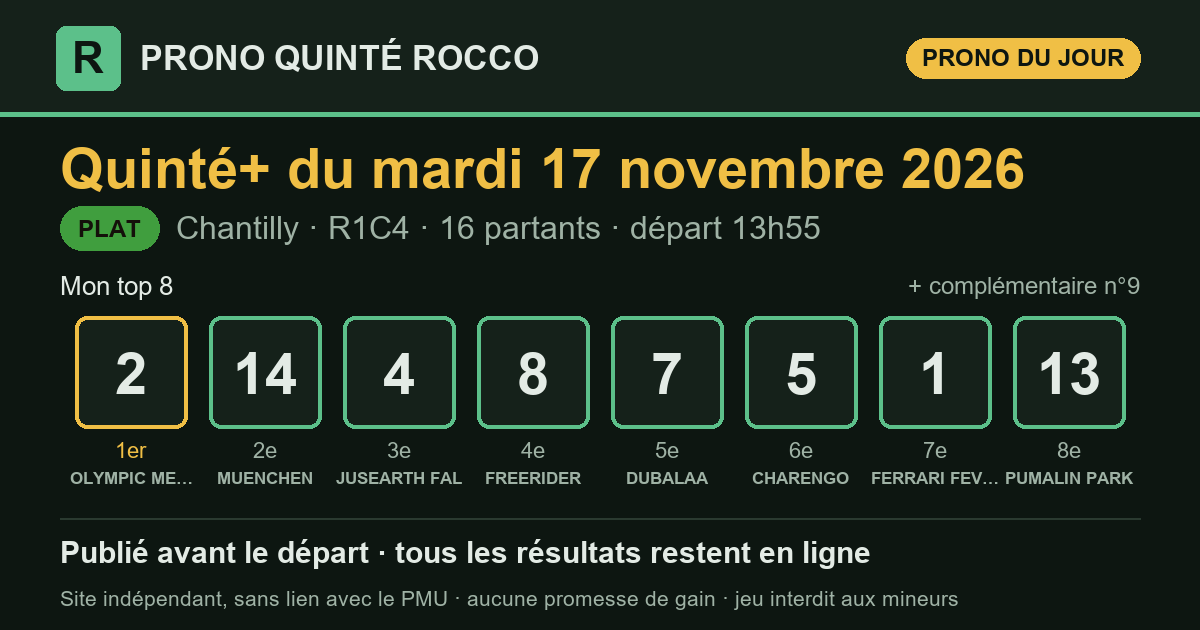
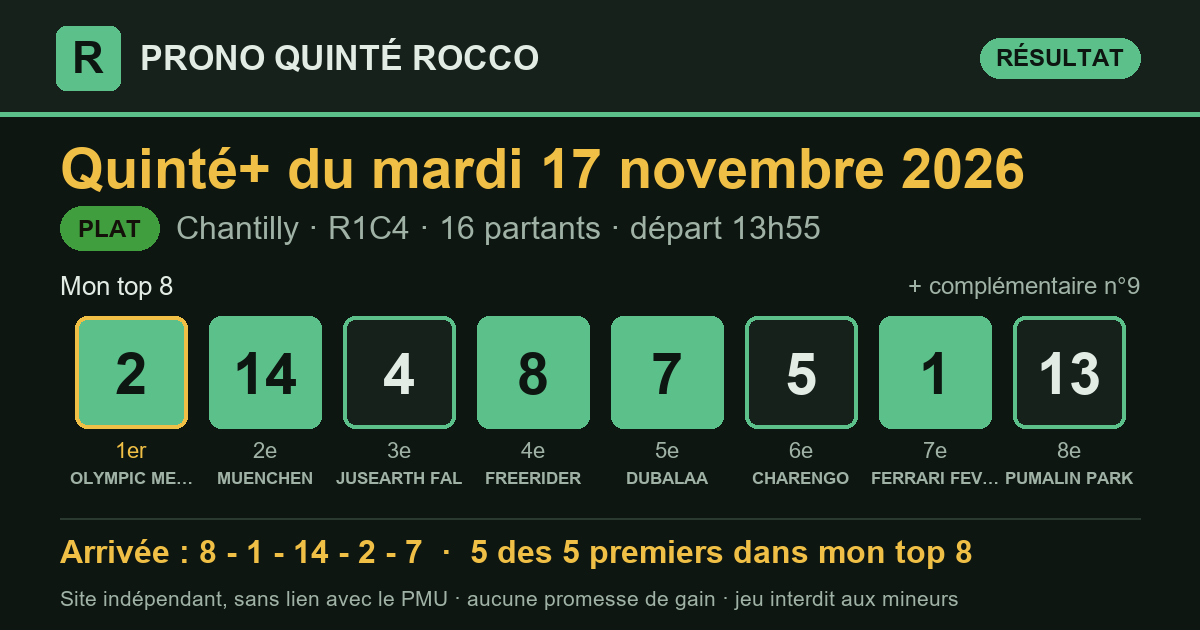
Résultat du Quinté+ 2026-11-17 Chantilly R1C4 — publié le 17/11/2026 14:09 (heure de Paris)

diff --git a/index.html b/index.html
@@ -16,7 +16,7 @@
 <meta property="og:title" content="Pronostics Quinté+ et Super Pick 5 du mardi 17 novembre 2026 — Prono Quinté Rocco">
 <meta property="og:description" content="Pronostics Quinté+ (Prix de Beauvais) et Super Pick 5 (Prix d&#x27;Aix les Bains) du jour : mes top 8, publiés avant le départ, puis tous les résultats et le rendement réel.">
 <meta property="og:url" content="https://prono-quinte-rocco.fr/">
-<meta property="og:image" content="https://prono-quinte-rocco.fr/partage/jour-2026-11-17.png?v=2fc89c6c">
+<meta property="og:image" content="https://prono-quinte-rocco.fr/partage/jour-2026-11-17.png?v=c4b7b05a">
 <meta property="og:image:type" content="image/png">
 <meta property="og:image:width" content="1200">
 <meta property="og:image:height" content="630">
@@ -32,7 +32,7 @@
 <div class="jeux j-quinte" role="navigation" aria-label="Choix du jeu"><a class="jeu jeu-quinte actif" href="index.html" aria-current="true">Quinté+</a><a class="jeu jeu-sp5" href="superpick5.html">e-Super Pick5<small>entre 17 h et 19 h</small></a></div>
 <main>
 <section class="une" aria-labelledby="t-jour">
-  <p class="surtitre">Quinté+ du jour</p>
+  <p class="surtitre">Dernier Quinté+</p>
   <h1 id="t-jour">Le prono du Quinté+, résultats compris</h1>
   <p class="chapo">Chaque matin, j'étudie les partants du Quinté+ avec le logiciel que
   j'ai conçu, selon ma propre méthode, qu'une intelligence artificielle m'aide à
@@ -43,10 +43,13 @@
   <p class="meta">Prix de Beauvais · Chantilly · <strong>R1C4</strong> · 16 partants · <span class="lisib">lisibilité <span class="note" aria-label="note 2 sur 5" title="lisibilité 2/5 : course ouverte"><i class="on"></i><i class="on"></i><i class=""></i><i class=""></i><i class=""></i></span> 2/5</span></p>
   <div class="zone-prono">
     <h3 class="zone-titre">Mon top 8</h3>
-    <ol class="partants" aria-label="Mon top 8"><li><span class="rang">1<sup>er</sup></span><span class="tapis ">2</span><span class="nom">OLYMPIC MESSAGE</span></li><li><span class="rang">2<sup>e</sup></span><span class="tapis ">14</span><span class="nom">MUENCHEN</span></li><li><span class="rang">3<sup>e</sup></span><span class="tapis ">4</span><span class="nom">JUSEARTH FAL</span></li><li><span class="rang">4<sup>e</sup></span><span class="tapis ">8</span><span class="nom">FREERIDER</span></li><li><span class="rang">5<sup>e</sup></span><span class="tapis ">7</span><span class="nom">DUBALAA</span></li><li><span class="rang">6<sup>e</sup></span><span class="tapis ">5</span><span class="nom">CHARENGO</span></li><li><span class="rang">7<sup>e</sup></span><span class="tapis ">1</span><span class="nom">FERRARI FEVER</span></li><li><span class="rang">8<sup>e</sup></span><span class="tapis ">13</span><span class="nom">PUMALIN PARK</span></li><li><span class="rang">compl.</span><span class="tapis creux">9</span><span class="nom">FRANCISCANO</span></li></ol>
+    <ol class="partants" aria-label="Mon top 8"><li><span class="rang">1<sup>er</sup></span><span class="tapis plein">2</span><span class="nom">OLYMPIC MESSAGE</span></li><li><span class="rang">2<sup>e</sup></span><span class="tapis plein">14</span><span class="nom">MUENCHEN</span></li><li><span class="rang">3<sup>e</sup></span><span class="tapis ">4</span><span class="nom">JUSEARTH FAL</span></li><li><span class="rang">4<sup>e</sup></span><span class="tapis plein">8</span><span class="nom">FREERIDER</span></li><li><span class="rang">5<sup>e</sup></span><span class="tapis plein">7</span><span class="nom">DUBALAA</span></li><li><span class="rang">6<sup>e</sup></span><span class="tapis ">5</span><span class="nom">CHARENGO</span></li><li><span class="rang">7<sup>e</sup></span><span class="tapis plein">1</span><span class="nom">FERRARI FEVER</span></li><li><span class="rang">8<sup>e</sup></span><span class="tapis ">13</span><span class="nom">PUMALIN PARK</span></li><li><span class="rang">compl.</span><span class="tapis creux">9</span><span class="nom">FRANCISCANO</span></li></ol>
     <div class="pied-carte"><span>Analysé le 17/11 à 11:10 · en ligne le 17/11 à 11:18 · départ à 13:55 (heure de Paris)</span><span><a href="quinte/2026-11-17.html">Détail de la course</a></span></div>
   </div>
-  <div class="zone-arrivee attente"><p>L'arrivée officielle s'affichera ici après la course.</p></div>
+  <div class="zone-arrivee">
+    <div class="zone-tete"><h3 class="zone-titre">Arrivée officielle</h3><span class="etat top">5 des 5 premiers dans mon top 8</span><span class="etat non">mon 1er (n°2) : non placé</span></div>
+    <ol class="partants" aria-label="Arrivée officielle"><li><span class="rang">1<sup>er</sup></span><span class="tapis plein">8</span><span class="nom">FREERIDER</span></li><li><span class="rang">2<sup>e</sup></span><span class="tapis plein">1</span><span class="nom">FERRARI FEVER</span></li><li><span class="rang">3<sup>e</sup></span><span class="tapis plein">14</span><span class="nom">MUENCHEN</span></li><li><span class="rang">4<sup>e</sup></span><span class="tapis plein">2</span><span class="nom">OLYMPIC MESSAGE</span></li><li><span class="rang">5<sup>e</sup></span><span class="tapis plein">7</span><span class="nom">DUBALAA</span></li></ol>
+  </div>
 </article>
 </section>
 <section class="suivre" aria-label="Suivre et soutenir">
@@ -76,7 +79,7 @@
 </section>
 <section class="bilan" aria-labelledby="t-bilan">
   <h2 id="t-bilan">Mon bilan depuis le 8 septembre 2026</h2>
-  <div class="tableau chiffres"><div class="case"><span class="gros ">73 %</span><span class="lib">des arrivants trouvés dans mon top 8</span><span class="ref">un top 8 tiré au hasard : 51 %</span></div><div class="case"><span class="gros ">88 %</span><span class="lib">des gagnants présents dans mon top 8</span><span class="ref"></span></div><div class="case"><span class="gros ">48 %</span><span class="lib">mon 1er placé</span><span class="ref">sur 69 Quintés</span></div><div class="case"><span class="gros perte">0,88 €</span><span class="lib">rendus pour 1 € joué placé sur mon 1er</span><span class="ref">rapports officiels PMU</span></div><div class="case"><span class="gros perte">0,43 €</span><span class="lib">rendus pour 1 € joué en Quinté+ combiné sur mon top 8</span><span class="ref">56 combinaisons, rapports PMU.fr, sur 69 Quintés</span></div></div>
+  <div class="tableau chiffres"><div class="case"><span class="gros ">73 %</span><span class="lib">des arrivants trouvés dans mon top 8</span><span class="ref">un top 8 tiré au hasard : 51 %</span></div><div class="case"><span class="gros ">89 %</span><span class="lib">des gagnants présents dans mon top 8</span><span class="ref"></span></div><div class="case"><span class="gros ">47 %</span><span class="lib">mon 1er placé</span><span class="ref">sur 70 Quintés</span></div><div class="case"><span class="gros perte">0,87 €</span><span class="lib">rendus pour 1 € joué placé sur mon 1er</span><span class="ref">rapports officiels PMU</span></div><div class="case"><span class="gros perte">0,43 €</span><span class="lib">rendus pour 1 € joué en Quinté+ combiné sur mon top 8</span><span class="ref">56 combinaisons, rapports PMU.fr, sur 70 Quintés</span></div></div>
   <p class="avertissement">Moins de 1 € rendu pour 1 € joué : suivre mon prono à la lettre fait <strong>perdre de l'argent</strong> sur cette période. Il sert à analyser une course, pas à promettre un gain.</p>
 </section>
 </main>

diff --git a/partants.html b/partants.html
@@ -33,42 +33,42 @@
     <p class="fiche-date">Mardi 17 novembre 2026</p>
     <div class="fiche-rc"><span class="pastille" title="Réunion 1">R1</span><span class="pastille" title="Course 4">C4</span><span class="fiche-nom">Prix de Beauvais</span></div>
     <p class="meta"><span class="type t-plat">Plat</span>Chantilly · 1 600 m · 16 partants</p>
-    <p class="fiche-depart">Départ <b>13:55</b> <span>heure de Paris</span></p>
+    <p class="fiche-depart">Départ <b>13:57</b> <span>heure de Paris</span></p>
   </div>
   <p class="surtitre">Les pronostics ailleurs sur le web</p>
-  <div class="liens"><a class="lien-ext" href="https://www.turfoo.fr/programmes-courses/261117/reunion1-chantilly/course4-prix-de-beauvais/pronostics-presse/" rel="noopener" target="_blank"><b>Les pronostics de la presse →</b><span>sur Turfoo (site extérieur)</span></a><a class="lien-ext" href="https://www.geny.com/programme/2026-11-17" rel="noopener" target="_blank"><b>Partants et pronostics →</b><span>programme du jour sur Geny (site extérieur)</span></a></div>
+  <div class="liens"><a class="lien-ext" href="https://www.turfoo.fr/programmes-courses/261117/" rel="noopener" target="_blank"><b>Les pronostics de la presse →</b><span>sur Turfoo (site extérieur)</span></a><a class="lien-ext" href="https://www.geny.com/programme/2026-11-17" rel="noopener" target="_blank"><b>Partants et pronostics →</b><span>programme du jour sur Geny (site extérieur)</span></a></div>
   <div class="liste-boite"><table class="liste-partants">
     <thead><tr><th>N°</th><th>Cheval</th><th class="cote"><span class="long">Cote du matin</span><span class="court">Cote</span></th>
     <th class="ia"><span class="long">Mon prono</span><span class="court">Prono</span></th></tr></thead>
     <tbody><tr>
   <td><span class="tapis petit">1</span></td>
   <td><span class="cheval">FERRARI FEVER</span><span class="sous">T.TRULLIER · JUL .PHELIPPON</span></td>
-  <td class="cote num">16,0</td>
+  <td class="cote num">15,0</td>
   <td class="ia"><span class="etat place">7<sup>e</sup></span></td>
 </tr><tr>
   <td><span class="tapis petit">2</span></td>
   <td><span class="cheval">OLYMPIC MESSAGE</span><span class="sous">C.SOUMILLON · N.PERRET (S)</span></td>
-  <td class="cote num">3,9</td>
+  <td class="cote num">4,4</td>
   <td class="ia"><span class="etat place">1<sup>er</sup></span></td>
 </tr><tr>
   <td><span class="tapis petit">3</span></td>
   <td><span class="cheval">THOR LIGHTNING</span><span class="sous">T.BACHELOT · S.RICHTER</span></td>
-  <td class="cote num">30,0</td>
+  <td class="cote num">29,0</td>
   <td class="ia">—</td>
 </tr><tr>
   <td><span class="tapis petit">4</span></td>
   <td><span class="cheval">JUSEARTH FAL</span><span class="sous">C.LECOEUVRE · M.PITART</span></td>
-  <td class="cote num">10,0</td>
+  <td class="cote num">9,9</td>
   <td class="ia"><span class="etat place">3<sup>e</sup></span></td>
 </tr><tr>
   <td><span class="tapis petit">5</span></td>
   <td><span class="cheval">CHARENGO</span><span class="sous">M.GUYON · FX.WEISSMEIER</span></td>
-  <td class="cote num">9,5</td>
+  <td class="cote num">10,0</td>
   <td class="ia"><span class="etat place">6<sup>e</sup></span></td>
 </tr><tr>
   <td><span class="tapis petit">6</span></td>
   <td><span class="cheval">DIVINE CHRISNAT</span><span class="sous">F.VERON · CH.PLISSON (S)</span></td>
-  <td class="cote num">36,0</td>
+  <td class="cote num">38,0</td>
   <td class="ia">—</td>
 </tr><tr>
   <td><span class="tapis petit">7</span></td>
@@ -78,7 +78,7 @@
 </tr><tr>
   <td><span class="tapis petit">8</span></td>
   <td><span class="cheval">FREERIDER</span><span class="sous">PC.BOUDOT · FH.GRAFFARD (S)</span></td>
-  <td class="cote num">8,1</td>
+  <td class="cote num">6,8</td>
   <td class="ia"><span class="etat place">4<sup>e</sup></span></td>
 </tr><tr>
   <td><span class="tapis petit">9</span></td>
@@ -88,42 +88,42 @@
 </tr><tr>
   <td><span class="tapis petit">10</span></td>
   <td><span class="cheval">FAST RAAJ</span><span class="sous">H.JOURNIAC · Y.BARBEROT (S)</span></td>
-  <td class="cote num">35,0</td>
+  <td class="cote num">31,0</td>
   <td class="ia">—</td>
 </tr><tr>
   <td><span class="tapis petit">11</span></td>
   <td><span class="cheval">MONTGAUDRY</span><span class="sous">H.BOUTIN · D.SMAGA</span></td>
-  <td class="cote num">32,0</td>
+  <td class="cote num">34,0</td>
   <td class="ia">—</td>
 </tr><tr>
   <td><span class="tapis petit">12</span></td>
   <td><span class="cheval">CANENA</span><span class="sous">A.WERLE · K.TAVARES (S)</span></td>
-  <td class="cote num">56,0</td>
+  <td class="cote num">55,0</td>
   <td class="ia">—</td>
 </tr><tr>
   <td><span class="tapis petit">13</span></td>
   <td><span class="cheval">PUMALIN PARK</span><span class="sous">E.HARDOUIN · G.MOSSE (S)</span></td>
-  <td class="cote num">13,0</td>
+  <td class="cote num">14,0</td>
   <td class="ia"><span class="etat place">8<sup>e</sup></span></td>
 </tr><tr>
   <td><span class="tapis petit">14</span></td>
   <td><span class="cheval">MUENCHEN</span><span class="sous">S.PASQUIER · C.ESCUDER</span></td>
-  <td class="cote num">7,9</td>
+  <td class="cote num">7,4</td>
   <td class="ia"><span class="etat place">2<sup>e</sup></span></td>
 </tr><tr>
   <td><span class="tapis petit">15</span></td>
   <td><span class="cheval">FOU FURIEUX</span><span class="sous">A.MADAMET · N.CAULLERY</span></td>
-  <td class="cote num">16,0</td>
+  <td class="cote num">17,0</td>
   <td class="ia">—</td>
 </tr><tr>
   <td><span class="tapis petit">16</span></td>
   <td><span class="cheval">COKTAIL</span><span class="sous">C.PACAUT · J.RAJA</span></td>
-  <td class="cote num">46,0</td>
+  <td class="cote num">52,0</td>
   <td class="ia">—</td>
 </tr></tbody>
   </table></div>
   <p class="meta">La colonne « Mon prono » donne le rang de chaque cheval dans mon top 8, tel qu&#x27;il est publié sur ce site. Sous chaque cheval : jockey · entraîneur. Partants et cotes : programme
-  officiel du PMU, lu le 17/11 à 11:18 (heure de Paris). NP = non-partant.</p>
+  officiel du PMU, lu le 17/11 à 14:09 (heure de Paris). NP = non-partant.</p>
 </section>
 </main>
 <footer class="pied">

diff --git a/quinte/2026-11-17.html b/quinte/2026-11-17.html
@@ -16,7 +16,7 @@
 <meta property="og:title" content="Pronostic Quinté+ du mardi 17 novembre 2026 : Prix de Beauvais à Chantilly — Prono Quinté Rocco">
 <meta property="og:description" content="Prono Quinté+ du mardi 17 novembre 2026 (Prix de Beauvais, Chantilly) : mon top 8, l&#x27;arrivée officielle et les rapports PMU.fr.">
 <meta property="og:url" content="https://prono-quinte-rocco.fr/quinte/2026-11-17.html">
-<meta property="og:image" content="https://prono-quinte-rocco.fr/partage/2026-11-17.png?v=d5117443">
+<meta property="og:image" content="https://prono-quinte-rocco.fr/partage/2026-11-17.png?v=7343bb04">
 <meta property="og:image:type" content="image/png">
 <meta property="og:image:width" content="1200">
 <meta property="og:image:height" content="630">
@@ -36,15 +36,25 @@
   <h1>Pronostic Quinté+ du mardi 17 novembre 2026</h1>
   <p class="chapo">Prix de Beauvais · Chantilly · R1C4 · Plat · 16 partants</p>
   <article class="carte-course">
-  <div class="tete"><h2>Mon prono</h2><span class="type t-plat">Plat</span></div>
+  <div class="tete"><h2>Mon prono et l&#x27;arrivée officielle</h2><span class="type t-plat">Plat</span></div>
   <p class="meta">Prix de Beauvais · Chantilly · <strong>R1C4</strong> · 16 partants · <span class="lisib">lisibilité <span class="note" aria-label="note 2 sur 5" title="lisibilité 2/5 : course ouverte"><i class="on"></i><i class="on"></i><i class=""></i><i class=""></i><i class=""></i></span> 2/5</span></p>
   <div class="zone-prono">
     <h3 class="zone-titre">Mon top 8</h3>
-    <ol class="partants" aria-label="Mon top 8"><li><span class="rang">1<sup>er</sup></span><span class="tapis ">2</span><span class="nom">OLYMPIC MESSAGE</span></li><li><span class="rang">2<sup>e</sup></span><span class="tapis ">14</span><span class="nom">MUENCHEN</span></li><li><span class="rang">3<sup>e</sup></span><span class="tapis ">4</span><span class="nom">JUSEARTH FAL</span></li><li><span class="rang">4<sup>e</sup></span><span class="tapis ">8</span><span class="nom">FREERIDER</span></li><li><span class="rang">5<sup>e</sup></span><span class="tapis ">7</span><span class="nom">DUBALAA</span></li><li><span class="rang">6<sup>e</sup></span><span class="tapis ">5</span><span class="nom">CHARENGO</span></li><li><span class="rang">7<sup>e</sup></span><span class="tapis ">1</span><span class="nom">FERRARI FEVER</span></li><li><span class="rang">8<sup>e</sup></span><span class="tapis ">13</span><span class="nom">PUMALIN PARK</span></li><li><span class="rang">compl.</span><span class="tapis creux">9</span><span class="nom">FRANCISCANO</span></li></ol>
+    <ol class="partants" aria-label="Mon top 8"><li><span class="rang">1<sup>er</sup></span><span class="tapis plein">2</span><span class="nom">OLYMPIC MESSAGE</span></li><li><span class="rang">2<sup>e</sup></span><span class="tapis plein">14</span><span class="nom">MUENCHEN</span></li><li><span class="rang">3<sup>e</sup></span><span class="tapis ">4</span><span class="nom">JUSEARTH FAL</span></li><li><span class="rang">4<sup>e</sup></span><span class="tapis plein">8</span><span class="nom">FREERIDER</span></li><li><span class="rang">5<sup>e</sup></span><span class="tapis plein">7</span><span class="nom">DUBALAA</span></li><li><span class="rang">6<sup>e</sup></span><span class="tapis ">5</span><span class="nom">CHARENGO</span></li><li><span class="rang">7<sup>e</sup></span><span class="tapis plein">1</span><span class="nom">FERRARI FEVER</span></li><li><span class="rang">8<sup>e</sup></span><span class="tapis ">13</span><span class="nom">PUMALIN PARK</span></li><li><span class="rang">compl.</span><span class="tapis creux">9</span><span class="nom">FRANCISCANO</span></li></ol>
     <div class="pied-carte"><span>Analysé le 17/11 à 11:10 · en ligne le 17/11 à 11:18 · départ à 13:55 (heure de Paris)</span><span></span></div>
   </div>
-  <div class="zone-arrivee attente"><p>L'arrivée officielle s'affichera ici après la course.</p></div>
+  <div class="zone-arrivee">
+    <div class="zone-tete"><h3 class="zone-titre">Arrivée officielle</h3><span class="etat top">5 des 5 premiers dans mon top 8</span><span class="etat non">mon 1er (n°2) : non placé</span></div>
+    <ol class="partants" aria-label="Arrivée officielle"><li><span class="rang">1<sup>er</sup></span><span class="tapis plein">8</span><span class="nom">FREERIDER</span></li><li><span class="rang">2<sup>e</sup></span><span class="tapis plein">1</span><span class="nom">FERRARI FEVER</span></li><li><span class="rang">3<sup>e</sup></span><span class="tapis plein">14</span><span class="nom">MUENCHEN</span></li><li><span class="rang">4<sup>e</sup></span><span class="tapis plein">2</span><span class="nom">OLYMPIC MESSAGE</span></li><li><span class="rang">5<sup>e</sup></span><span class="tapis plein">7</span><span class="nom">DUBALAA</span></li></ol>
+  </div>
 </article>
+<section class="carte-course rapports" aria-labelledby="t-rap">
+  <div class="tete"><h2 id="t-rap">Les rapports</h2></div>
+  <div class="deux">
+    <div><h3>Ce qu'aurait rendu mon prono</h3><dl class="kv"><dt>1 € placé sur mon 1er (n°2)</dt><dd class="perte">0,00 €</dd><dt>1 € gagnant sur mon 1er</dt><dd class="perte">0,00 €</dd><dt>Quinté+ combiné sur mon top 8 (mise 112 €)</dt><dd class="partiel"><span class="etat partiel somme">108,80 €</span></dd><dd class="dont">dont Désordre × 1, Bonus 4sur5 × 15, Bonus 3 × 3</dd></dl></div>
+    <div><h3>Rapports officiels</h3><dl class="kv"><dt>e-Quinté+ Ordre (2 €)</dt><dd>5 427,40 €</dd><dt>e-Quinté+ Désordre (2 €)</dt><dd>45,20 €</dd><dt>e-Bonus 4sur5 (2 €)</dt><dd>3,60 €</dd><dt>e-Bonus 3 (2 €)</dt><dd>3,20 €</dd></dl></div>
+  </div>
+</section>
 </section>
 </main>
 <footer class="pied">

diff --git a/resultats.html b/resultats.html
@@ -49,12 +49,12 @@
     <th colspan="4" class="res g-res">Le résultat officiel</th></tr>
     <tr><th>Date</th><th>Course</th><th>Top 8</th><th class="c-lis">Lisibilité</th><th class="res c-arr">Arrivée</th>
     <th class="res">Trouvés</th><th class="res">Mon 1er</th><th class="res mont">Quinté+ top 8<br><small>(mise 112 €)</small></th></tr></thead>
-    <tbody><tr class="attente">
+    <tbody><tr>
   <td class="c-date"><a href="quinte/2026-11-17.html">17/11</a></td>
   <td class="c-course">Chantilly<br><span class="meta">R1C4</span><span class="type t-plat petit">Plat</span></td>
-  <td class="c-top8" data-label="Mon top 8"><div class="rangee"><span class="tapis petit">2</span><span class="tapis petit">14</span><span class="tapis petit">4</span><span class="tapis petit">8</span><span class="tapis petit">7</span><span class="tapis petit">5</span><span class="tapis petit">1</span><span class="tapis petit">13</span></div></td>
+  <td class="c-top8" data-label="Mon top 8"><div class="rangee"><span class="tapis plein petit">2</span><span class="tapis plein petit">14</span><span class="tapis petit">4</span><span class="tapis plein petit">8</span><span class="tapis plein petit">7</span><span class="tapis petit">5</span><span class="tapis plein petit">1</span><span class="tapis petit">13</span></div></td>
   <td class="c-lis" data-label="Lisibilité"><span class="note" aria-label="note 2 sur 5" title="lisibilité 2/5 : course ouverte"><i class="on"></i><i class="on"></i><i class=""></i><i class=""></i><i class=""></i></span> 2/5</td>
-  <td class="res c-arr" data-label="Arrivée"><span class="etat attente">en attente</span></td><td class="res num c-trouves" data-label="Trouvés">—</td><td class="res c-premier" data-label="Mon 1er"><span class="etat attente">—</span></td><td class="res mont c-mont" data-label="Quinté+ top 8 (mise 112 €)">—</td>
+  <td class="res c-arr" data-label="Arrivée"><div class="rangee"><span class="tapis plein petit" title="1er">8</span><span class="tapis plein petit" title="2e">1</span><span class="tapis plein petit" title="3e">14</span><span class="tapis plein petit" title="4e">2</span><span class="tapis plein petit" title="5e">7</span></div></td><td class="res num c-trouves" data-label="Trouvés"><span class="etat top" title="les 5 premiers sont dans mon top 8">5/5</span></td><td class="res c-premier" data-label="Mon 1er"><span class="etat non">non placé</span></td><td class="res mont c-mont partiel" data-label="Quinté+ top 8 (mise 112 €)" title="perte nette : 3,20 €"><span class="etat partiel somme">108,80 €</span></td>
 </tr><tr>
   <td class="c-date"><a href="quinte/2026-11-16.html">16/11</a></td>
   <td class="c-course">Vincennes<br><span class="meta">R1C1</span><span class="type t-attele petit">Attelé</span></td>
@@ -474,7 +474,7 @@
 </section>
 <section class="bilan" aria-labelledby="t-bilan">
   <h2 id="t-bilan">Mon bilan depuis le 8 septembre 2026</h2>
-  <div class="tableau chiffres"><div class="case"><span class="gros ">73 %</span><span class="lib">des arrivants trouvés dans mon top 8</span><span class="ref">un top 8 tiré au hasard : 51 %</span></div><div class="case"><span class="gros ">88 %</span><span class="lib">des gagnants présents dans mon top 8</span><span class="ref"></span></div><div class="case"><span class="gros ">48 %</span><span class="lib">mon 1er placé</span><span class="ref">sur 69 Quintés</span></div><div class="case"><span class="gros perte">0,88 €</span><span class="lib">rendus pour 1 € joué placé sur mon 1er</span><span class="ref">rapports officiels PMU</span></div><div class="case"><span class="gros perte">0,43 €</span><span class="lib">rendus pour 1 € joué en Quinté+ combiné sur mon top 8</span><span class="ref">56 combinaisons, rapports PMU.fr, sur 69 Quintés</span></div></div>
+  <div class="tableau chiffres"><div class="case"><span class="gros ">73 %</span><span class="lib">des arrivants trouvés dans mon top 8</span><span class="ref">un top 8 tiré au hasard : 51 %</span></div><div class="case"><span class="gros ">89 %</span><span class="lib">des gagnants présents dans mon top 8</span><span class="ref"></span></div><div class="case"><span class="gros ">47 %</span><span class="lib">mon 1er placé</span><span class="ref">sur 70 Quintés</span></div><div class="case"><span class="gros perte">0,87 €</span><span class="lib">rendus pour 1 € joué placé sur mon 1er</span><span class="ref">rapports officiels PMU</span></div><div class="case"><span class="gros perte">0,43 €</span><span class="lib">rendus pour 1 € joué en Quinté+ combiné sur mon top 8</span><span class="ref">56 combinaisons, rapports PMU.fr, sur 70 Quintés</span></div></div>
   <p class="avertissement">Moins de 1 € rendu pour 1 € joué : suivre mon prono à la lettre fait <strong>perdre de l'argent</strong> sur cette période. Il sert à analyser une course, pas à promettre un gain.</p>
 </section>
 </main>

diff --git a/superpick5-partants.html b/superpick5-partants.html
@@ -43,32 +43,32 @@
     <tbody><tr>
   <td><span class="tapis petit">1</span></td>
   <td><span class="cheval">LILIUS DE GUEZ</span><span class="sous">A. ABRIVARD · N. BAZIRE</span></td>
-  <td class="cote num">10,0</td>
+  <td class="cote num">8,5</td>
   <td class="ia"><span class="etat place">8<sup>e</sup></span></td>
 </tr><tr>
   <td><span class="tapis petit">2</span></td>
   <td><span class="cheval">LE VENT DU HOULET</span><span class="sous">M. LELIEVRE · L. VERVA</span></td>
-  <td class="cote num">19,0</td>
+  <td class="cote num">15,0</td>
   <td class="ia"><span class="etat place">5<sup>e</sup></span></td>
 </tr><tr>
   <td><span class="tapis petit">3</span></td>
   <td><span class="cheval">LABEL DE LARRE</span><span class="sous">M. CHAMPENOIS · S. ROGER</span></td>
-  <td class="cote num">39,0</td>
+  <td class="cote num">46,0</td>
   <td class="ia">—</td>
 </tr><tr>
   <td><span class="tapis petit">4</span></td>
   <td><span class="cheval">LUCIANO ROYAL</span><span class="sous">A. COLLETTE · Mme I.L. KUULMAN</span></td>
-  <td class="cote num">19,0</td>
+  <td class="cote num">20,0</td>
   <td class="ia">—</td>
 </tr><tr>
   <td><span class="tapis petit">5</span></td>
   <td><span class="cheval">LUCAS DE TOURNAI</span><span class="sous">M. MOTTIER · J. CONDETTE</span></td>
-  <td class="cote num">7,0</td>
+  <td class="cote num">7,8</td>
   <td class="ia"><span class="etat place">2<sup>e</sup></span></td>
 </tr><tr>
   <td><span class="tapis petit">6</span></td>
-  <td><span class="cheval">L&#x27;ARTISTE ZEN</span><span class="sous">S.E. PASQUIER · F. TERRY</span></td>
-  <td class="cote num">29,0</td>
+  <td><span class="cheval">L&#x27;ARTISTE ZEN</span><span class="sous">A. ANDRE · F. TERRY</span></td>
+  <td class="cote num">24,0</td>
   <td class="ia">—</td>
 </tr><tr>
   <td><span class="tapis petit">7</span></td>
@@ -78,12 +78,12 @@
 </tr><tr>
   <td><span class="tapis petit">8</span></td>
   <td><span class="cheval">LOVE&#x27;S SECRET</span><span class="sous">E. RAFFIN · J.PH. DUBOIS</span></td>
-  <td class="cote num">6,0</td>
+  <td class="cote num">5,5</td>
   <td class="ia"><span class="etat place">3<sup>e</sup></span></td>
 </tr><tr>
   <td><span class="tapis petit">9</span></td>
   <td><span class="cheval">LOTUS DU RIB</span><span class="sous">N. PERRON · JOEL HALLAIS</span></td>
-  <td class="cote num">9,9</td>
+  <td class="cote num">10,0</td>
   <td class="ia"><span class="etat place">6<sup>e</sup></span></td>
 </tr><tr>
   <td><span class="tapis petit">10</span></td>
@@ -93,22 +93,22 @@
 </tr><tr>
   <td><span class="tapis petit">11</span></td>
   <td><span class="cheval">LOOPING DU PERRE</span><span class="sous">B. ROCHARD · C. PILFERT</span></td>
-  <td class="cote num">6,5</td>
+  <td class="cote num">6,4</td>
   <td class="ia"><span class="etat place">1<sup>er</sup></span></td>
 </tr><tr>
   <td><span class="tapis petit">12</span></td>
   <td><span class="cheval">LEONCE DU CLOS</span><span class="sous">Mme T. MATHIAS-MAISONNETTE · TH. RAFFEGEAU</span></td>
-  <td class="cote num">17,0</td>
+  <td class="cote num">18,0</td>
   <td class="ia">—</td>
 </tr><tr>
   <td><span class="tapis petit">13</span></td>
   <td><span class="cheval">LEADER DES RIOULTS</span><span class="sous">P.PH. PLOQUIN · MICKAEL CORMY</span></td>
-  <td class="cote num">6,8</td>
+  <td class="cote num">8,1</td>
   <td class="ia"><span class="etat place">4<sup>e</sup></span></td>
 </tr></tbody>
   </table></div>
   <p class="meta">La colonne « Mon prono » donne le rang de chaque cheval dans mon top 8, tel qu&#x27;il est publié sur ce site. Sous chaque cheval : jockey · entraîneur. Partants et cotes : programme
-  officiel du PMU, lu le 17/11 à 11:18 (heure de Paris). NP = non-partant.</p>
+  officiel du PMU, lu le 17/11 à 14:09 (heure de Paris). NP = non-partant.</p>
 </section>
 </main>
 <footer class="pied">
